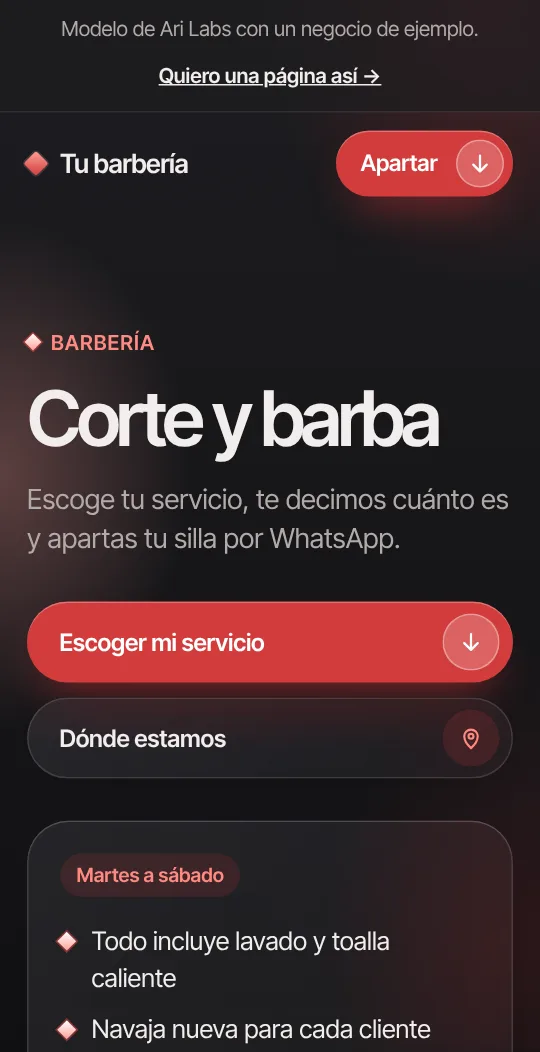
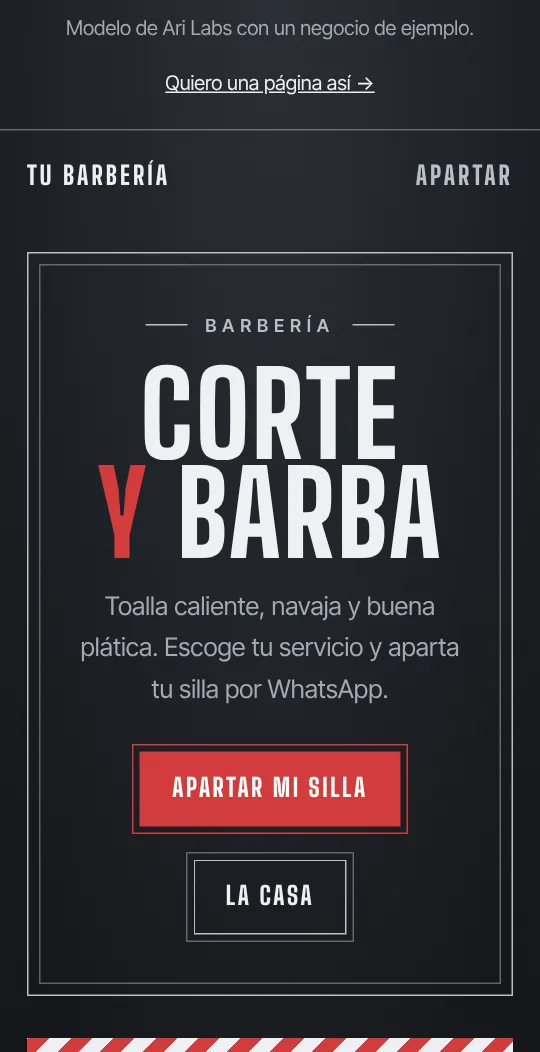
Web: los 4 modelos nuevos en la sección de modelos, con capturas nuevas
Claude-Session: https://claude.ai/code/session_01Kc7UqCn6E9o6Li3sPnE4yz

diff --git a/index.html b/index.html
@@ -349,18 +349,23 @@
     <div class="carril">
       <div class="pista">
         <article class="placa hielo inclina">
-          <div class="marco"><img src="img/modelo-restaurante.webp" width="540" height="1052" loading="lazy" decoding="async" alt="Modelo de restaurante, con el guiso de hoy y un botón para apartar por WhatsApp."></div>
-          <div class="texto"><b>Restaurante</b><span>El menú de la semana; el guiso de hoy cambia solo.</span>
+          <div class="marco"><img src="img/modelo-heladeria.webp" width="540" height="1052" loading="lazy" decoding="async" alt="Modelo de heladería en rosa, con el sabor del día en grande, un cono dibujado y el precio en un sello redondo."></div>
+          <div class="texto"><b>Heladería</b><span>El sabor del día y tu pedido armado por WhatsApp.</span>
+          <a class="boton secundario" href="modelos/heladeria/">Ver modelo<span class="icono"><svg viewBox="0 0 24 24" fill="none" stroke="currentColor" stroke-width="2" stroke-linecap="round" stroke-linejoin="round" aria-hidden="true"><path d="M7 17 17 7M9 7h8v8"/></svg></span></a></div>
+        </article>
+        <article class="placa hielo inclina">
+          <div class="marco"><img src="img/modelo-restaurante.webp" width="540" height="1052" loading="lazy" decoding="async" alt="Modelo de restaurante de cocina de autor, en fondo oscuro, con un plato en un círculo y letra fina."></div>
+          <div class="texto"><b>Restaurante</b><span>La carta en pestañas y la reserva por WhatsApp.</span>
           <a class="boton secundario" href="modelos/restaurante/">Ver modelo<span class="icono"><svg viewBox="0 0 24 24" fill="none" stroke="currentColor" stroke-width="2" stroke-linecap="round" stroke-linejoin="round" aria-hidden="true"><path d="M7 17 17 7M9 7h8v8"/></svg></span></a></div>
         </article>
         <article class="placa hielo inclina">
-          <div class="marco"><img src="img/modelo-barberia.webp" width="540" height="1052" loading="lazy" decoding="async" alt="Modelo de barbería, en negro y rojo, con el botón para escoger el servicio."></div>
-          <div class="texto"><b>Barbería o estética</b><span>La tabla de precios: marcas tus servicios y sale la cuenta.</span>
+          <div class="marco"><img src="img/modelo-barberia.webp" width="540" height="1052" loading="lazy" decoding="async" alt="Modelo de barbería clásica en grafito y plata, con un letrero enmarcado que dice Corte y barba."></div>
+          <div class="texto"><b>Barbería</b><span>La tabla de precios: marcas tus servicios y sale la cuenta.</span>
           <a class="boton secundario" href="modelos/barberia/">Ver modelo<span class="icono"><svg viewBox="0 0 24 24" fill="none" stroke="currentColor" stroke-width="2" stroke-linecap="round" stroke-linejoin="round" aria-hidden="true"><path d="M7 17 17 7M9 7h8v8"/></svg></span></a></div>
         </article>
         <article class="placa hielo inclina">
-          <div class="marco"><img src="img/modelo-consultorio.webp" width="540" height="1052" loading="lazy" decoding="async" alt="Modelo de consultorio dental, en lavanda sobre blanco, con el botón para apartar cita."></div>
-          <div class="texto"><b>Consultorio</b><span>Escoges día y hora; la cita llega por WhatsApp.</span>
+          <div class="marco"><img src="img/modelo-consultorio.webp" width="540" height="1052" loading="lazy" decoding="async" alt="Modelo de consultorio dental en crema y lavanda, con una ilustración en un marco ovalado."></div>
+          <div class="texto"><b>Consultorio</b><span>La cita en tres pasos; llega por WhatsApp.</span>
           <a class="boton secundario" href="modelos/consultorio/">Ver modelo<span class="icono"><svg viewBox="0 0 24 24" fill="none" stroke="currentColor" stroke-width="2" stroke-linecap="round" stroke-linejoin="round" aria-hidden="true"><path d="M7 17 17 7M9 7h8v8"/></svg></span></a></div>
         </article>
         <article class="placa hielo cero inclina">
@@ -370,7 +375,7 @@
         </article>
       </div>
     </div>
-    <p class="nota-pista">Desliza para ver los tres modelos →</p>
+    <p class="nota-pista">Desliza para ver los cuatro modelos →</p>
   </section>
 
   <!-- 5. Cómo trabajamos -->

diff --git a/diseno/capturas/sacar.js b/diseno/capturas/sacar.js
@@ -10,6 +10,7 @@ const trabajos = [
   ['mis-citas.html?p=oscuro', 'img/citas-agenda'],
   ['mis-citas.html?p=detalle', 'img/citas-detalle'],
   // los modelos: su portada en un teléfono (360x701 a escala 1.5 = 540x1052)
+  ['../../modelos/heladeria/', 'img/modelo-heladeria', 701],
   ['../../modelos/restaurante/', 'img/modelo-restaurante', 701],
   ['../../modelos/barberia/', 'img/modelo-barberia', 701],
   ['../../modelos/consultorio/', 'img/modelo-consultorio', 701],

diff --git a/diseno/DECISIONES.md b/diseno/DECISIONES.md
@@ -106,3 +106,8 @@ Para verla en local: `cd diseno/muestra && python3 -m http.server` (usa módulos
   **grafito y plata** (Big Shoulders) y consultorio cálido (Instrument Serif).
 - (31/10) Restaurante: estilo **cocina de autor** (Cormorant Garamond, noche cálida con barro). Heladería: el cono va
   **color galleta** (excepción a la paleta, la pidió Javi). Los cuatro juntos: https://claude.ai/artifact/Lf8CGYgXXXPo2sr6TG6F2Q
+- (31/10) **Los 4 modelos construidos completos**, cada uno con su estilo propio: modelos/heladeria (alegre), modelos/restaurante
+  (cocina de autor), modelos/barberia (clásica, grafito y plata), modelos/consultorio (cuidado cálido). Comparten solo
+  `modelos/acabado.js` (barra al bajar y piezas que aparecen). Se revisó cada uno en 320/390/1440: sin desborde, toques
+  de 44 px, nada encimado, y datos que cuadran (horarios con días y horas, sumas, mensajes de WhatsApp).
+- Pendiente de confirmar con Javi: los puntitos de sabores de la heladería usan el color natural de cada sabor (como el cono).
